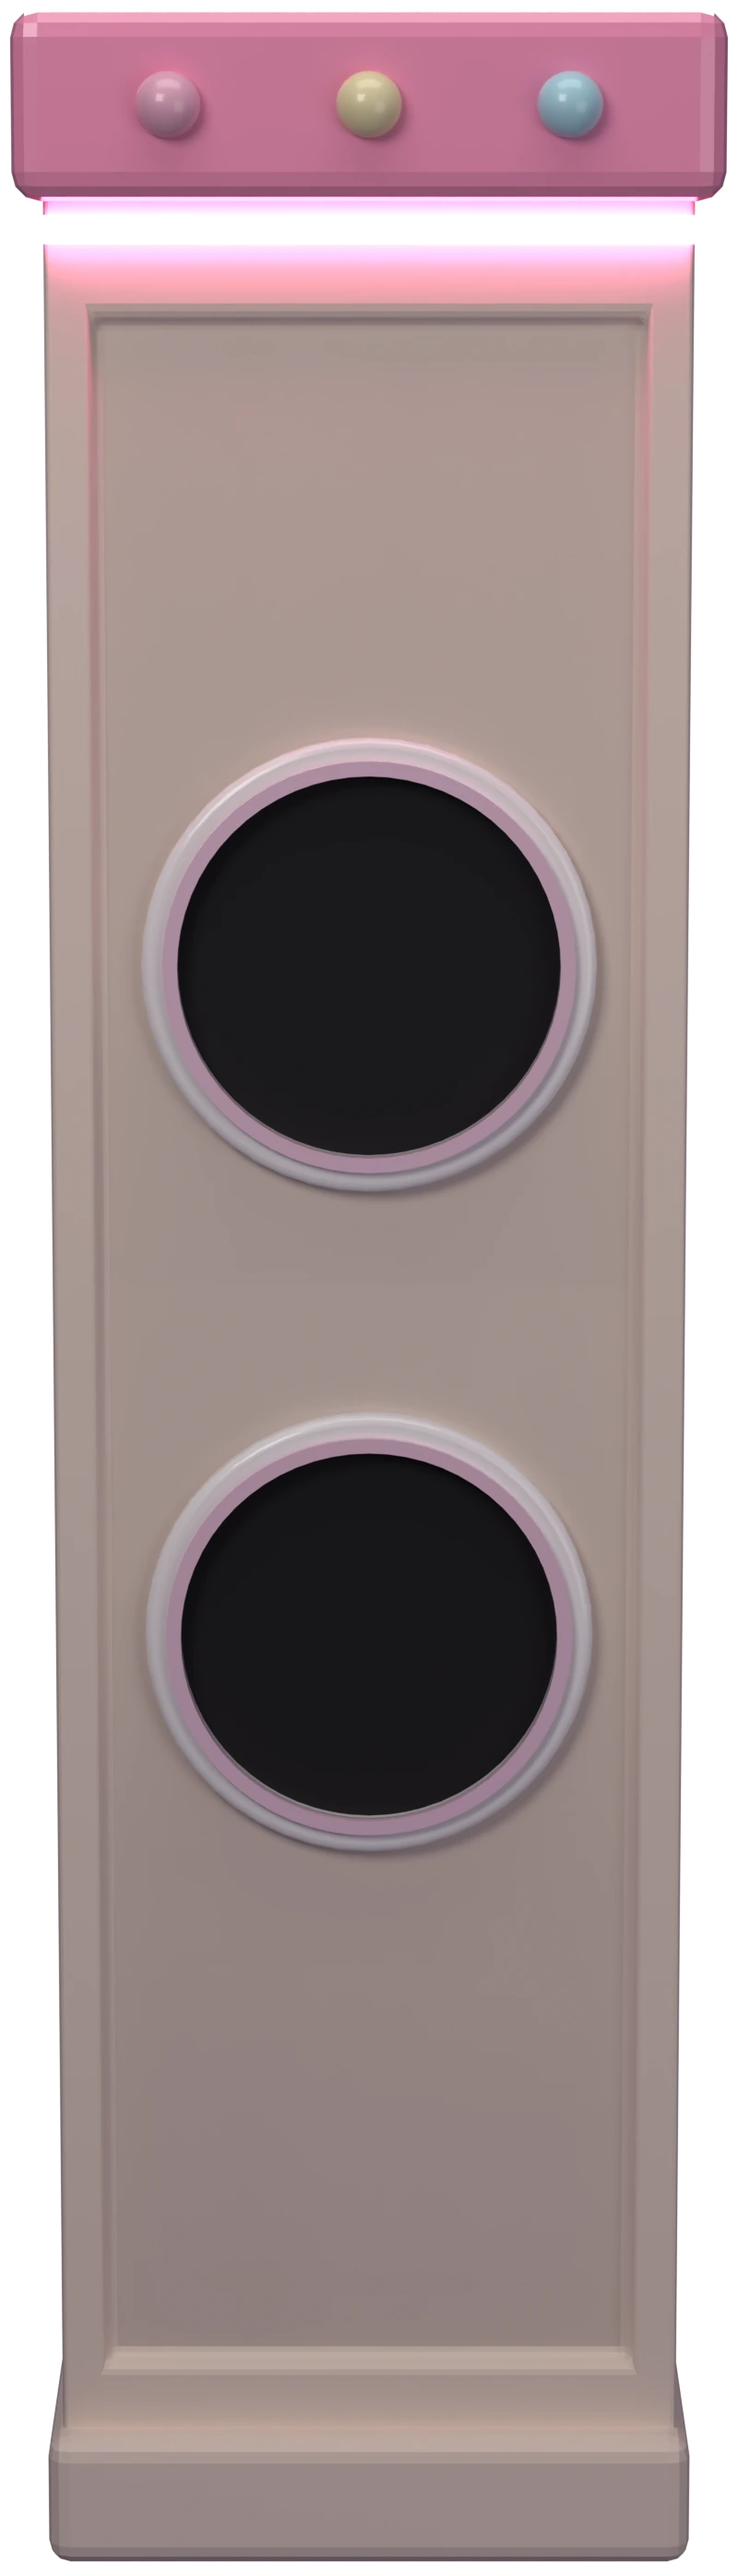
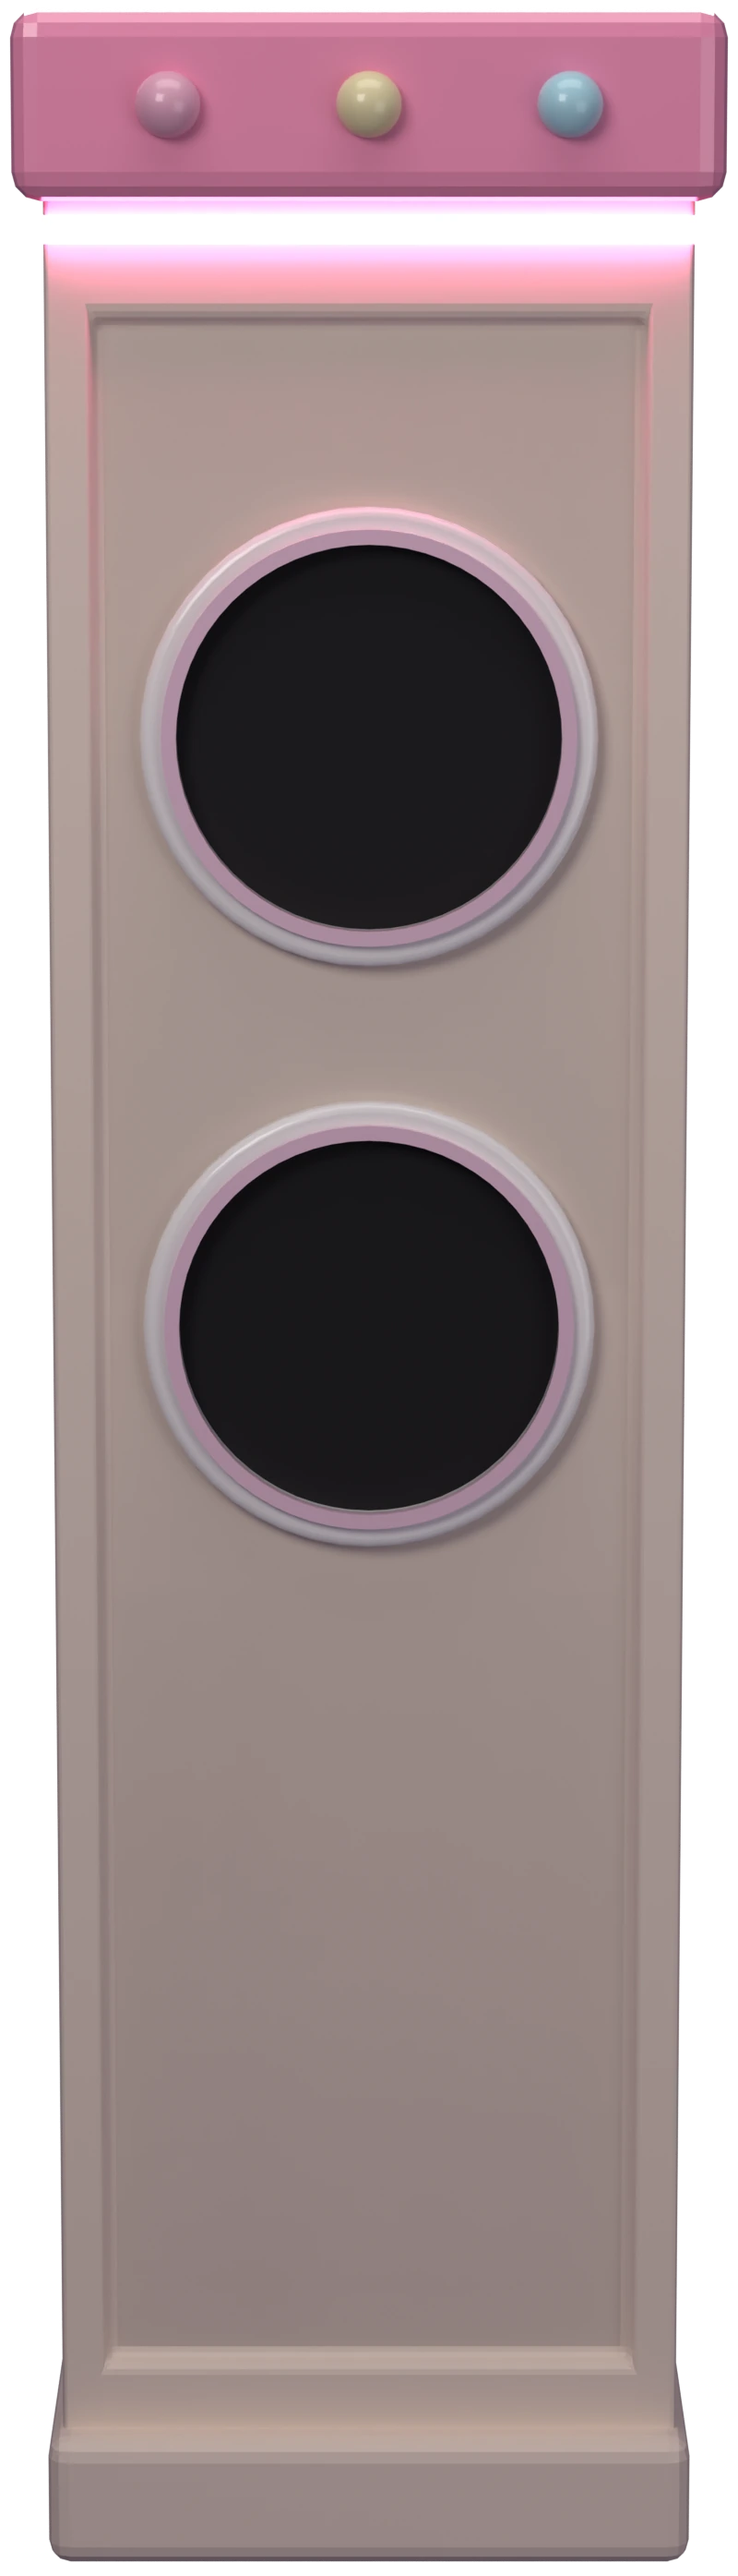
ぽちゃもんUFO：3回目の指摘（筐体と操作盤を画面の上端に揃え、下の空きは胴体と足の端の1行を伸ばして埋める・ボタンを操作盤の上寄りに移して右下の子を見えるように・UFO の影は一旦止める CFG.clawShadow=false）

Changed region(s): [[0.1875, 0.1871, 0.8438, 0.7484]]

diff --git a/main/pochamon-ufo/game.js b/main/pochamon-ufo/game.js
@@ -52,6 +52,7 @@ const CFG = {
   bgmVol: 0.5,          // BGM の音量（効果音に対する割合）
   slump: 0.55,          // 持ち上げた子の上に乗っていた子が穴へ沈む深さ（持ち上げた子の高さに対する割合）
   shadowAlpha: 0.6,     // UFO の影の濃さ（Blender の影そのままだと絵の上で穴に見える）
+  clawShadow: false,    // UFO の影を描くか（2026-10-29 本人「不自然だから一旦消す」＝止めている。絵と仕組みは残す）
 };
 Object.assign(CFG.layout, CFG_LAYOUT_OVERRIDE);
 
@@ -306,7 +307,7 @@ function resize() {
   view.k = Math.min(ch / H, (cw - 2 * edge - 2 * gap) / (W + 2 * conWperK));
   const imgW = W * view.k, imgH = H * view.k;
   view.ox = (cw - imgW) / 2;
-  view.oy = ch - imgH;   // 下端に揃える（4:3 で出る上の空きは部屋の色のまま＝梁の平らな天面に見える）
+  view.oy = 0;   // 上端に揃える（本人の指示＝上に隙間を作らない）。4:3 で出る下の空きは draw() が胴体の端の1行を伸ばして埋める
   document.documentElement.style.setProperty('--machine-left', view.ox + 'px');
   document.documentElement.style.setProperty('--machine-width', imgW + 'px');
   layoutConsoles();
@@ -406,9 +407,11 @@ function drawConsoles() {
   ctx.setTransform(view.dpr, 0, 0, view.dpr, 0, 0);
   ctx.globalAlpha = 1;
   for (const side of ['L', 'R']) {
-    const c = con[side];
+    const c = con[side], im = con.img['console_' + side];
     if (!c.cache) c.cache = bakeConsole(side);
     if (c.cache) ctx.drawImage(c.cache.canvas, c.cache.x, c.cache.y, c.cache.w, c.cache.h);
+    const bottom = c.y + c.h;   // 4:3 で出る下の空き：足の端の1行を画面の下端まで伸ばす
+    if (im && view.ch > bottom + 0.5) ctx.drawImage(im, 0, im.height - 1, im.width, 1, c.x, bottom - 0.5, c.w, view.ch - bottom + 1);
   }
   const t = frameNow / 1000;
   // 天井の電球：筐体の梁と同じ追いかけ点灯。番号は左の操作盤 0〜2 → 梁 3〜13 → 右の操作盤 14〜16 で一続き。
@@ -1187,6 +1190,7 @@ function pileTopUnder(x, y) {
   return { z, on };
 }
 function drawClawShadow(p, zs) {
+  if (!CFG.clawShadow) return;
   const h = Math.max(0, claw.z - zs);
   const ch = scene.machine.chute;
   const usable = clawShadows.filter((s) => s.h >= 0.04);   // 2cm の絵は触れる寸前の真っ黒な影＝絵の上では穴に見えるので使わない
@@ -1239,6 +1243,10 @@ function draw() {
   if (!img.bg) return;
   ctx.setTransform(view.k * view.dpr, 0, 0, view.k * view.dpr, view.ox * view.dpr, view.oy * view.dpr);
   ctx.drawImage(img.bg, 0, 0);
+  {   // 4:3 で出る下の空き：胴体の端の1行を画面の下端まで伸ばす（筐体が床まで続いて見える）
+    const W = scene.image.width, H = scene.image.height, bottom = (view.ch - view.oy) / view.k;
+    if (bottom > H + 0.5) ctx.drawImage(img.bg, 0, H - 1, W, 1, 0, H - 0.5, W, bottom - H + 1);
+  }
   // 梁の電球：点いているものだけ「点灯−消灯」の差分を足し算で貼る（消えた絵は背景に描いてある）
   frameNow = performance.now();
   const bstep = Math.floor(frameNow / 1000 / CFG.bulbStep);
